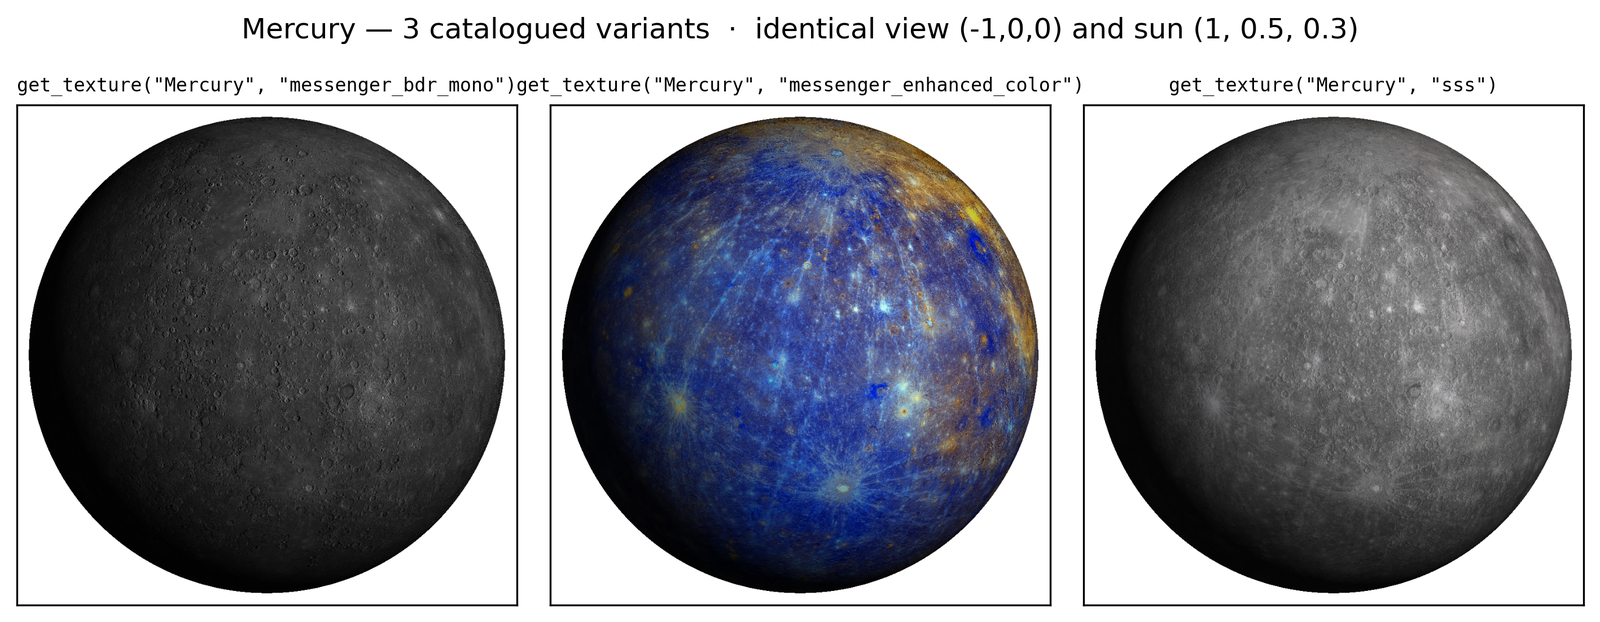
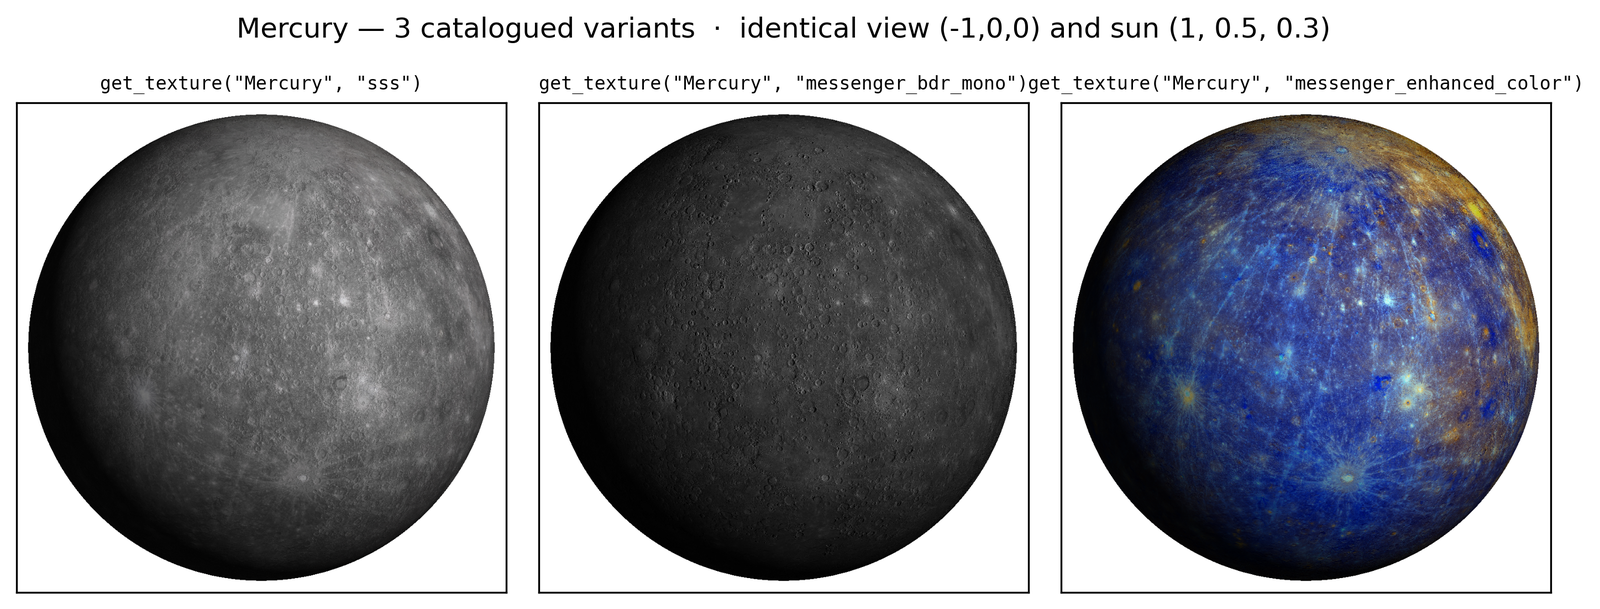
change: Mercury default texture back to "sss" (color)
Reordered the Mercury manifest entries so the Solar System Scope colour
mosaic ("sss") is first, making it the default get_texture("Mercury")
again; the B&W MDIS BDR basemap and the enhanced-colour mosaic remain
available as explicit variants. Synced the packaged manifest and
regenerated ATTRIBUTION.md.

The MESSENGER M1 flyby recipe now pins get_texture("Mercury",
"messenger_bdr_mono") explicitly, since the side-by-side compares
against NASA's grayscale mosaic. Updated the Mercury variant-grid
caption (default is now sss) and regenerated the texture gallery +
Mercury variant figures.

diff --git a/ATTRIBUTION.md b/ATTRIBUTION.md
@@ -57,6 +57,18 @@ attribution requirement is hard to miss.
 - **asset_url**: https://upload.wikimedia.org/wikipedia/commons/a/a4/Solarsystemscope_texture_8k_sun.jpg
 - **note**: The Sun has no meaningful sub-solar geometry; render with ambient=1.0.
 
+### Mercury / sss
+
+- **agency**: NASA
+- **mission**: MESSENGER
+- **instrument**: Mercury Dual Imaging System (MDIS)
+- **description**: Color-enhanced MDIS global mosaic, processed by Solar System Scope from MESSENGER data
+- **provenance**: Wikimedia Commons / Solar System Scope (INOVE s.r.o.)
+- **license**: CC BY 4.0 (texture); underlying MESSENGER imagery is public domain (NASA/JHU-APL)
+- **citation**: Solar System Scope (CC BY 4.0). Underlying data: Hawkins, S. E., et al. MESSENGER/MDIS team, NASA/JHU-APL.
+- **portal_url**: https://commons.wikimedia.org/wiki/File:Solarsystemscope_texture_8k_mercury.jpg
+- **asset_url**: https://upload.wikimedia.org/wikipedia/commons/2/27/Solarsystemscope_texture_8k_mercury.jpg
+
 ### Mercury / messenger_bdr_mono
 
 - **agency**: NASA
@@ -80,18 +92,6 @@ attribution requirement is hard to miss.
 - **citation**: Denevi, B. W. et al., USGS Astrogeology; MESSENGER MDIS team, NASA/JHU-APL. Enhanced color mosaic constructed from MDIS WAC filters 996/748/430 nm in PCA stretch.
 - **portal_url**: https://astrogeology.usgs.gov/search/map/Mercury/Messenger/Global/Mercury_MESSENGER_MDIS_Basemap_EnhancedColor_Mosaic_Global_665m
 - **asset_url**: https://upload.wikimedia.org/wikipedia/commons/4/41/Mercury_MESSENGER_MDIS_Basemap_EnhancedColor_Mosaic_Global_32ppd.jpg
-
-### Mercury / sss
-
-- **agency**: NASA
-- **mission**: MESSENGER
-- **instrument**: Mercury Dual Imaging System (MDIS)
-- **description**: Color-enhanced MDIS global mosaic, processed by Solar System Scope from MESSENGER data
-- **provenance**: Wikimedia Commons / Solar System Scope (INOVE s.r.o.)
-- **license**: CC BY 4.0 (texture); underlying MESSENGER imagery is public domain (NASA/JHU-APL)
-- **citation**: Solar System Scope (CC BY 4.0). Underlying data: Hawkins, S. E., et al. MESSENGER/MDIS team, NASA/JHU-APL.
-- **portal_url**: https://commons.wikimedia.org/wiki/File:Solarsystemscope_texture_8k_mercury.jpg
-- **asset_url**: https://upload.wikimedia.org/wikipedia/commons/2/27/Solarsystemscope_texture_8k_mercury.jpg
 
 ### Mercury / messenger_basemap_fullres
 

diff --git a/README.md b/README.md
@@ -200,9 +200,9 @@ multi-variant body to `examples/figures_gallery/`).
 <td align="center" width="50%">
 <b>Mercury</b> (3 variants)<br>
 <img src="docs/figures/gallery/variants_mercury.png" alt="Mercury variants" width="100%"><br>
-<sub>Default <code>messenger_bdr_mono</code> (B&W BDR basemap),
-plus the pseudo-color <code>messenger_enhanced_color</code> and the
-Solar System Scope re-processing.</sub>
+<sub>Default <code>sss</code> (Solar System Scope colour),
+plus the B&W <code>messenger_bdr_mono</code> BDR basemap and the
+pseudo-color <code>messenger_enhanced_color</code>.</sub>
 </td>
 <td align="center" width="50%">
 <b>Venus</b> (2 variants)<br>
@@ -681,7 +681,7 @@ sun_j2000, _ = spice.spkpos("SUN", et, "J2000", "LT", "199")
 sun = R @ np.array(sun_j2000)
 sun = sun / np.linalg.norm(sun)
 
-img = render_disk(get_texture("Mercury"),           # B&W MDIS BDR default
+img = render_disk(get_texture("Mercury", "messenger_bdr_mono"),  # B&W MDIS basemap
                   view_direction=view, sun_direction=sun,
                   size=1024, ambient=0.04)
 # range ≈ 29 000 km; phase angle ≈ 52°, so MESSENGER saw an ~80%-lit